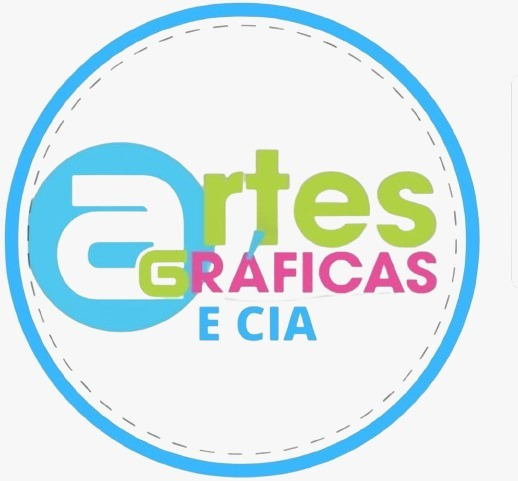
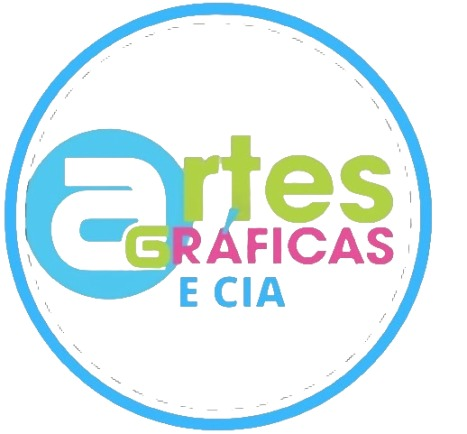
Cabeçalho concluido

diff --git a/css/style.css b/css/style.css
@@ -13,23 +13,96 @@
     --cor1 : #BF64A5;
     --cor2 : #38BDF2;
     --cor3 : #BAD94A;
-    --cor4 : #F2F2F2;
+    --cor4 : #e4e4e4dd;
     --marrom: #8B4513;
     --preto : #000000;
     --branco : #FFFFFF;
+    --sombra : #362619c2;
 
     --font-regular: "Merriweather Sans", serif;
     --font-principal: "Merriweather" , serif;
 }
 
-main{
-    background-image: url(../imagens/fundo-G.jpg);
+body {
+    width: 100vw;
+    height: 100vh;
+    margin: 0;
+    padding: 0;
+    position: relative;
+    font-family: var(--font-principal);
+    background-image: url("../imagens/fundo-G.jpg"); /* Imagem de fundo */
     background-repeat: no-repeat;
     background-size: cover;
-    background-attachment: fixed;
+    /* background-attachment: fixed;     */
     background-position: center center;
 }
 
-header{
+body::after {
+    content: ""; 
+    position: fixed;
+    top: 0;
+    left: 0;
+    width: 100%;
+    height: 100%;
+    background: var(--sombra); /* Cor da sombra */
+    z-index: -1; /* Coloca a sombra atrás do conteúdo */
+}
 
+header{
+    position: sticky; /*Header fica fixo mesmo com a rolagem*/
+    top: 0; /*Necessario para que o header fique fixo*/
+    width: 100%;
+    display: flex;
+    padding: 10px 20px;
+    align-items: center;
+    background-color: #FFFFFF;
+    justify-content: space-between; /*Posiciona os elemntos ao lado direito da tela*/
+}
+
+header picture{   
+    padding-left: 30vh;
+}
+
+.logo img {
+    width: 80px; /* Defina a largura desejada da imagem */
+    height: auto; /* Mantém a proporção da imagem */
+}
+
+
+nav ul{
+    list-style-type: none;
+    margin: 0;
+    padding: 0;
+    display: flex; /*Posiciona os elementos da lista, um ao lado do outro*/
+}
+
+nav ul li{
+    margin-left: 10px;
+}
+
+nav ul li:first-child{ /*Primeiro elemento da lista*/
+    margin-left: 0px;
+}
+nav ul li:last-child{ /*ultimo elemento da lista*/
+    margin-right: 23vh;
+}
+
+nav ul li a{
+    color: var(--preto);
+    opacity: 60%;
+    text-decoration: none;
+    padding: 5px;
+    transition: 0.1s;
+    font-family: var(--font-regular);
+    font-size: 1.1em;
+    font-weight: bold;
+}
+
+nav ul li a:hover{
+    color: var(--preto);
+    opacity: 100%;
+}
+
+main{
+    position: ;
 }

diff --git a/index.html b/index.html
@@ -9,12 +9,12 @@
 </head>
 <body>
     <header>
-        <nav>  
-            <picture>
-                <source media="(min-width: 100px)" srcset="imagens/Imagem-P.jpg">
-                <source media="(min-width: 500px)" srcset="imagens/Imagem-M.jpg">
-                <img src="imagens/Imagem-G.jpg" alt="Logo da Gráfica">
+        <div class="logo">
+            <picture>  
+                <img src="imagens/Imagem-G.png" alt="Logo da Gráfica">
             </picture>
+        </div>
+        <nav>
             <ul>
                 <li><a href="#Sobre">Sobre</a></li>
                 <li><a href="#Serviços">Serviços</a></li>
@@ -143,5 +143,7 @@
         <p>&copy; 2024 - Artes Gráficas e Cia</p>
         <p>Desenvolvedor - Edson Rafael - Maycon Gabriel</p>
     </footer>
+
+    <script src="js/script.js"></script>
 </body>
 </html>
